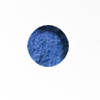
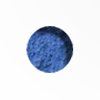
gui buildings levels

Changed region(s): [[0.24, 0.24, 0.75, 0.75]]

diff --git a/src/main/resources/css/board_scene.css b/src/main/resources/css/board_scene.css
@@ -26,7 +26,7 @@
 }
 
 .spacePane.lvlOne.lvlTwo {
-    -fx-background-image: url("../images/buildings/secondfloor.png");
+    -fx-background-image: url("../images/buildings/sample1.png");
 }
 
 .spacePane.lvlOne.lvlTwo.lvlThree {
